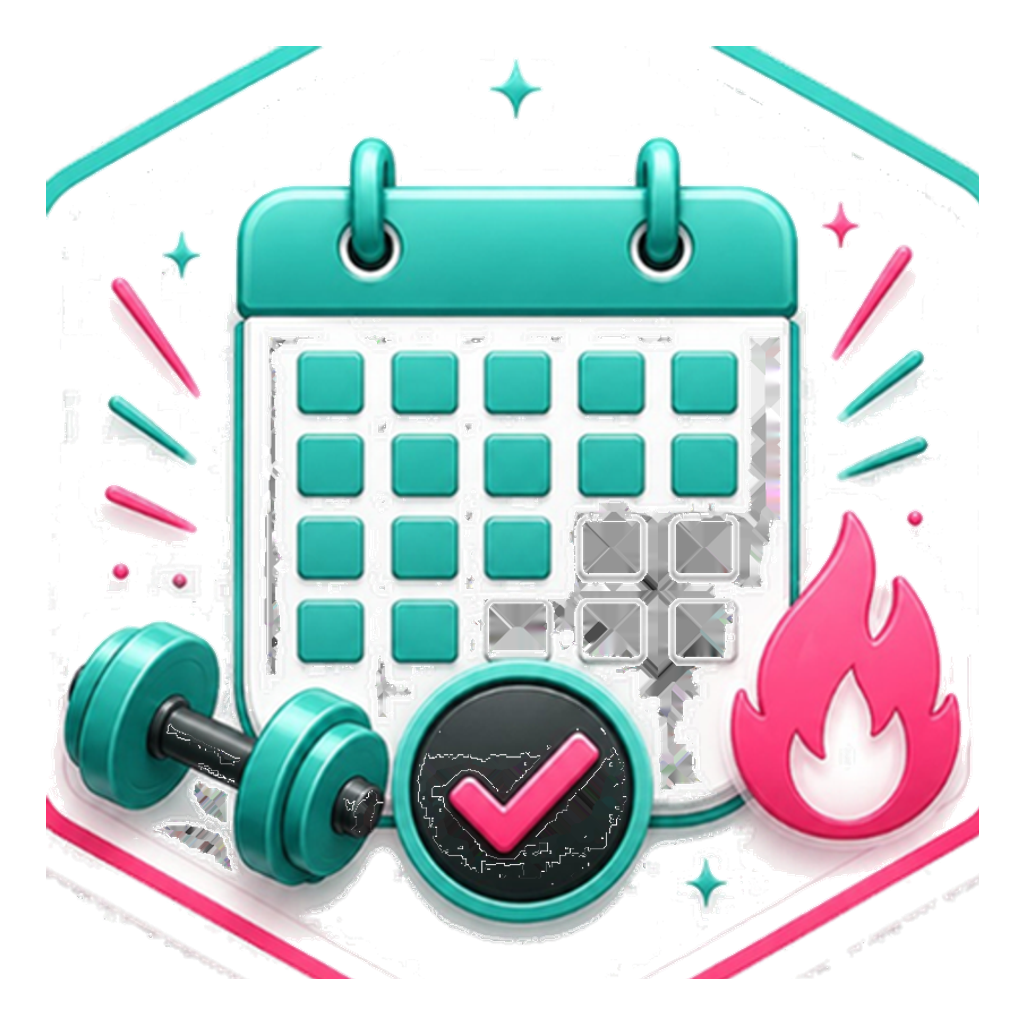
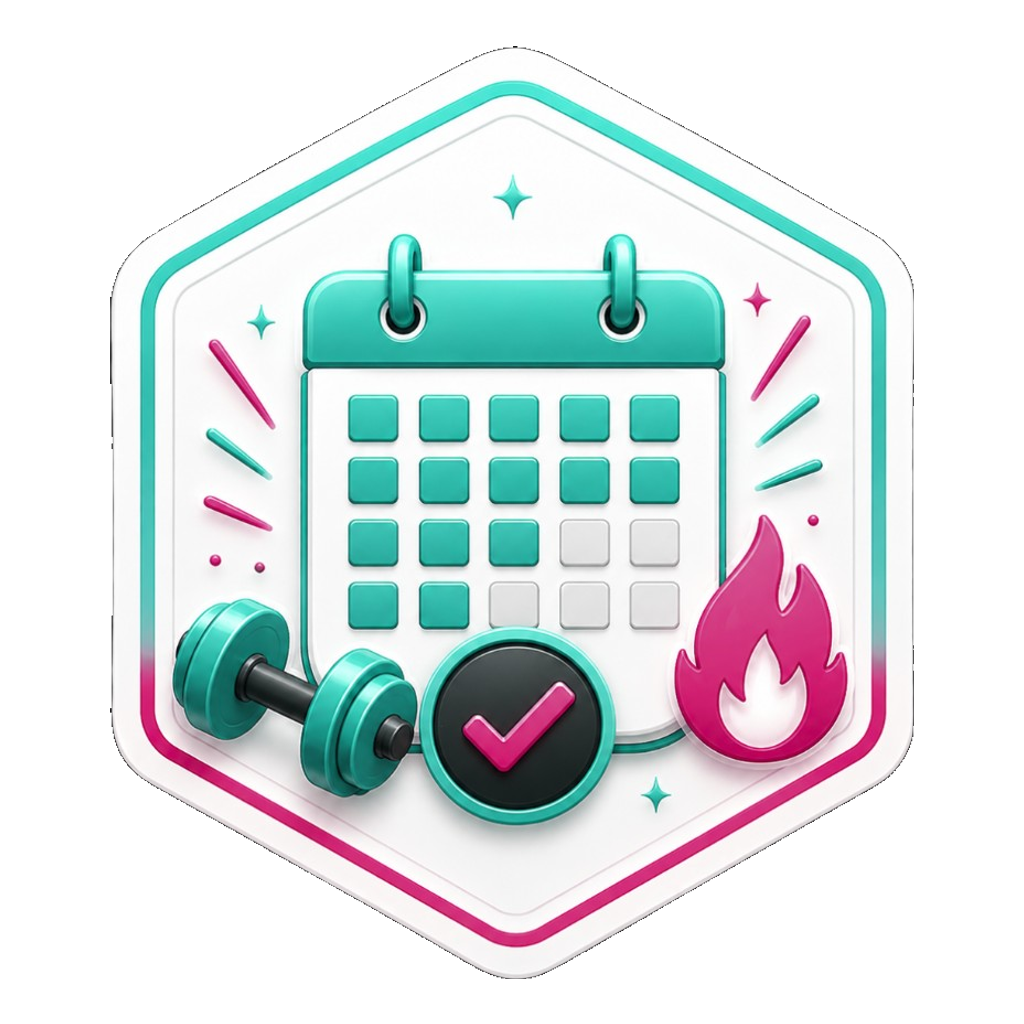
Update Månedsdriv badge artwork
Replace 07-vanebygger.png with new calendar design and bump cache version.

diff --git a/src/app/badgeAssets.ts b/src/app/badgeAssets.ts
@@ -1,5 +1,5 @@
 /** Felles badge-bilder (PNG 1024×1024, normalisert visuell størrelse). */
-export const BADGE_ASSET_VERSION = "29";
+export const BADGE_ASSET_VERSION = "30";
 
 export function badgeAssetUrl(path: string): string {
   const base = path.split("?")[0] || path;
